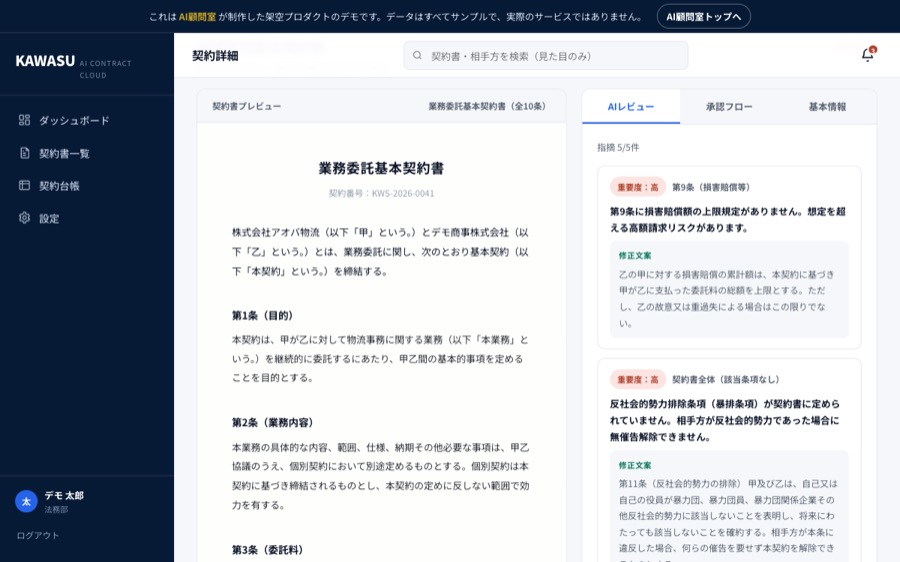
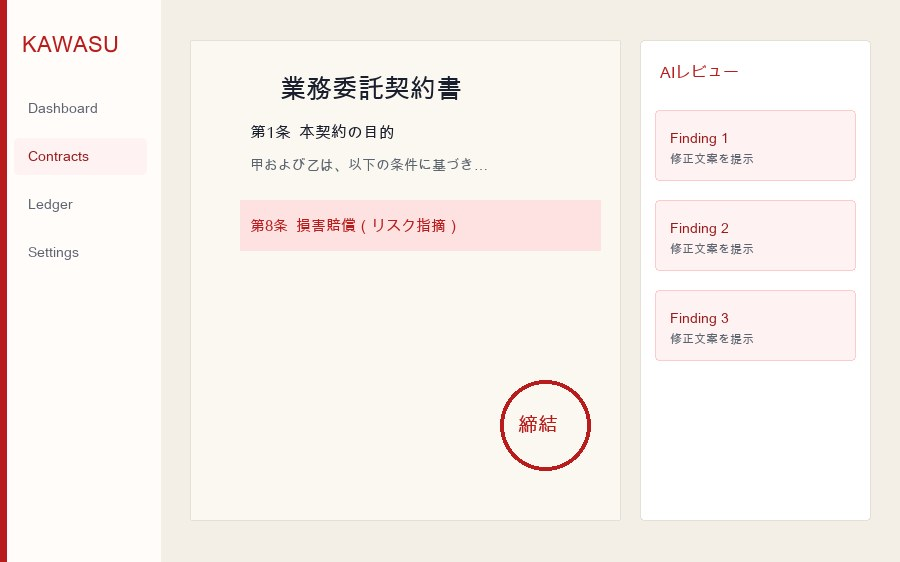
🖼️ feat: SaaS3本の新UIに合わせてサムネとアクセント色を更新
KAWASU朱印／SOROBAN ledger／MIMIYORI coral の見た目差が一覧でも伝わるよう差し替え。

diff --git a/systems.html b/systems.html
@@ -1,4 +1,4 @@
-<!-- 2026-07-22: KAWASU/SOROBAN/MIMIYORIの業務SaaS級3本と関連軽デモを1ページに集約 -->
+<!-- 2026-07-22: SaaS3本リデザインに合わせアクセント色・サムネを更新 -->
 <!DOCTYPE html>
 <html lang="ja">
 <head>
@@ -135,7 +135,7 @@
 
       <article class="sys-card">
         <div class="sys-visual">
-          <span class="sys-accent" style="background:#2563EB;"></span>
+          <span class="sys-accent" style="background:#B91C1C;"></span>
           <img src="assets/thumbs/works-contract.jpg" alt="KAWASU 契約管理クラウド" loading="lazy">
         </div>
         <div class="sys-body">
@@ -157,7 +157,7 @@
 
       <article class="sys-card">
         <div class="sys-visual">
-          <span class="sys-accent" style="background:#059669;"></span>
+          <span class="sys-accent" style="background:#0D9488;"></span>
           <img src="assets/thumbs/works-invoice.jpg" alt="SOROBAN 請求経理クラウド" loading="lazy">
         </div>
         <div class="sys-body">

diff --git a/works.html b/works.html
@@ -1,3 +1,4 @@
+<!-- 2026-07-22: SaaS3本リデザインに合わせ特集カード色・サムネを更新 -->
 <!DOCTYPE html>
 <html lang="ja">
 <head>
@@ -139,7 +140,7 @@
     <h2>業務SaaSを、まるごと3本作りました。</h2>
     <p class="fb-lead">電子契約・請求書経理・カスタマーサポート。市販のクラウドサービス級の業務システムを、デモとして丸ごと制作しました。3本ともログインして全画面を操作できます。AIが契約書をレビューし、請求書を読み取り、返信を下書きする様子を、そのまま体験してください。</p>
     <div class="feature-grid">
-      <a class="feature-card" href="works-contract.html" style="--fc:#2563EB;">
+      <a class="feature-card" href="works-contract.html" style="--fc:#B91C1C;">
         <img src="assets/thumbs/works-contract.jpg" alt="AI契約管理クラウド「カワス」の画面" loading="lazy">
         <div class="fc-body">
           <span class="fc-no">第1弾｜電子契約・契約管理</span>
@@ -148,7 +149,7 @@
           <span class="fc-try">▶ ログインして触る</span>
         </div>
       </a>
-      <a class="feature-card" href="works-invoice.html" style="--fc:#059669;">
+      <a class="feature-card" href="works-invoice.html" style="--fc:#0D9488;">
         <img src="assets/thumbs/works-invoice.jpg" alt="AI請求書経理クラウド「ソロバン」の画面" loading="lazy">
         <div class="fc-body">
           <span class="fc-no">第2弾｜請求書・経理</span>